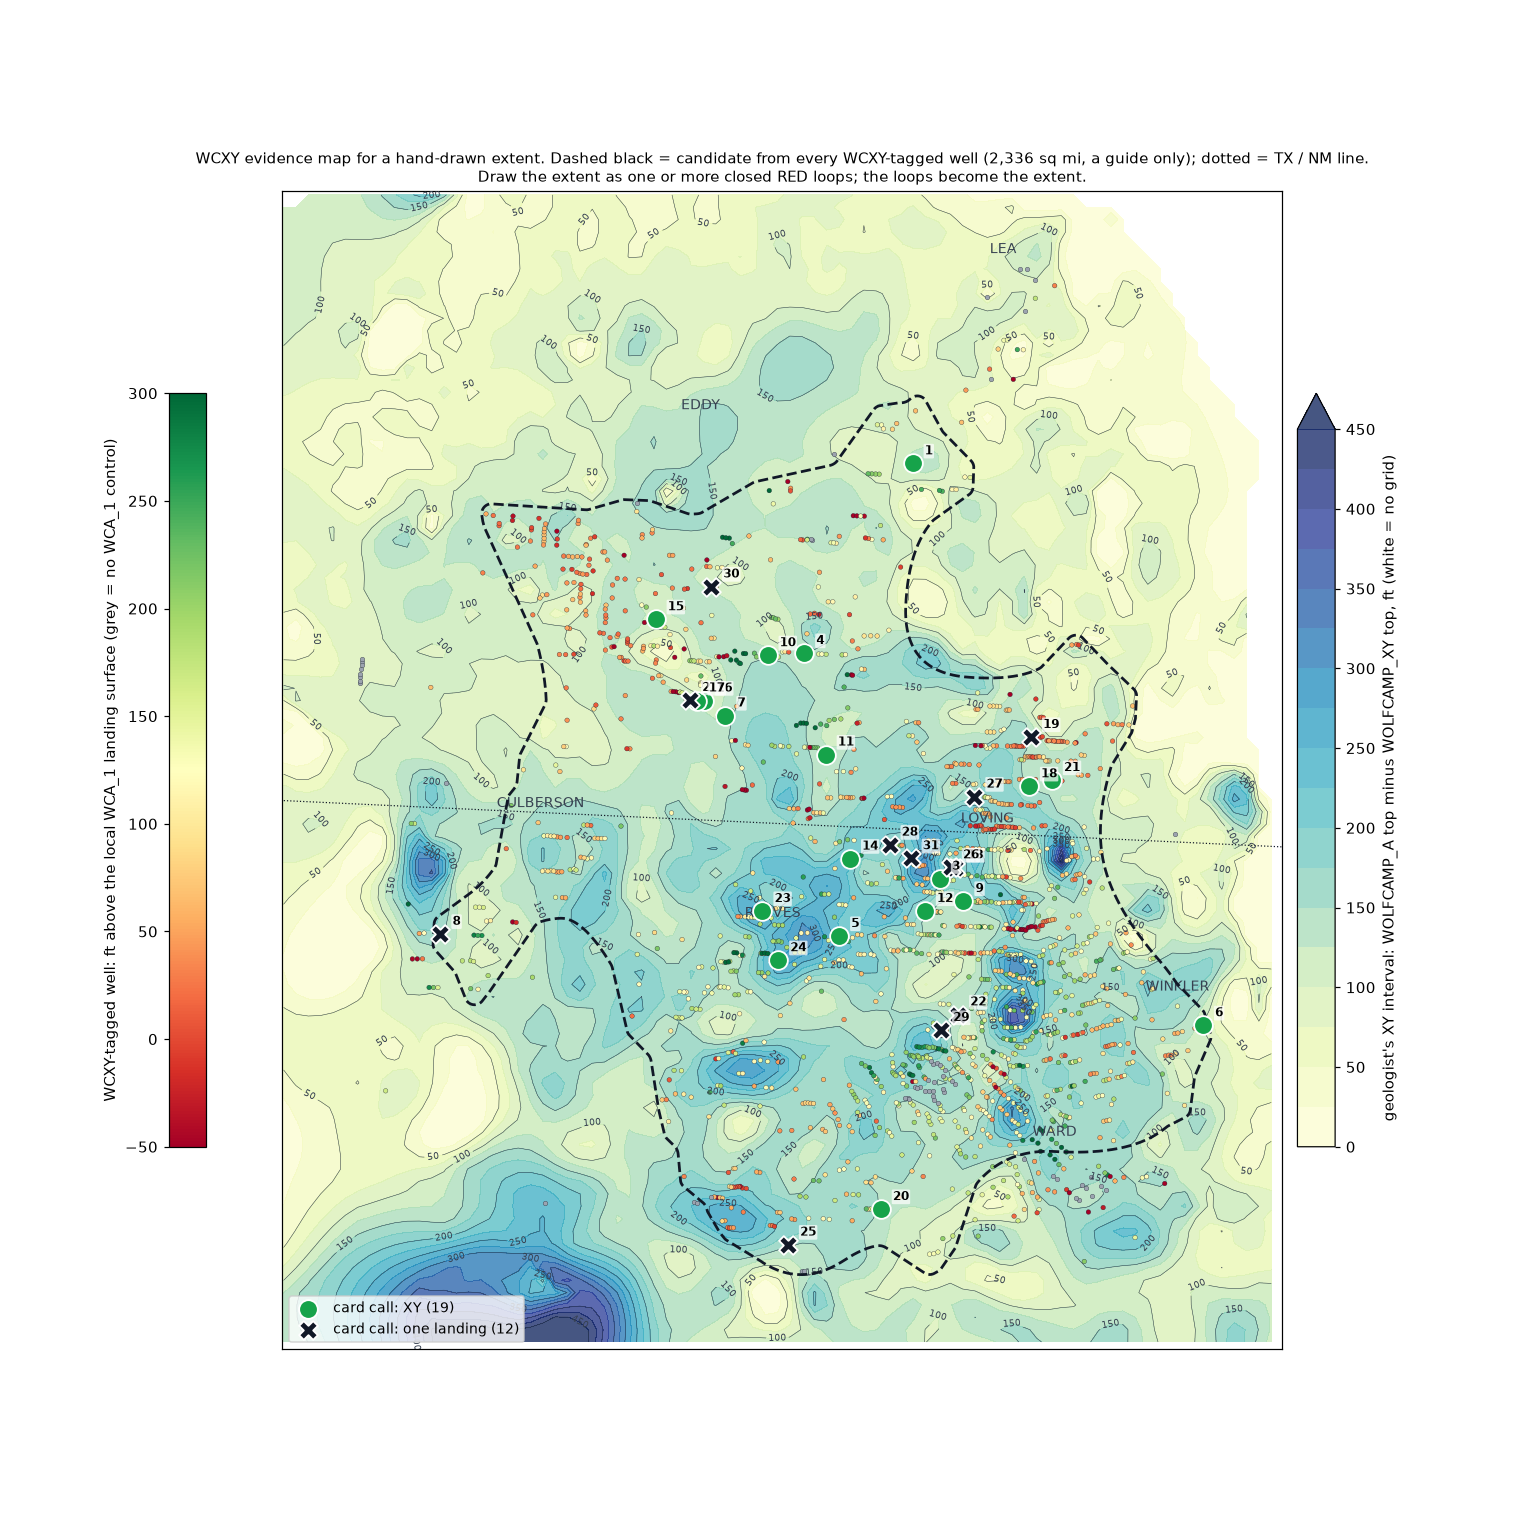
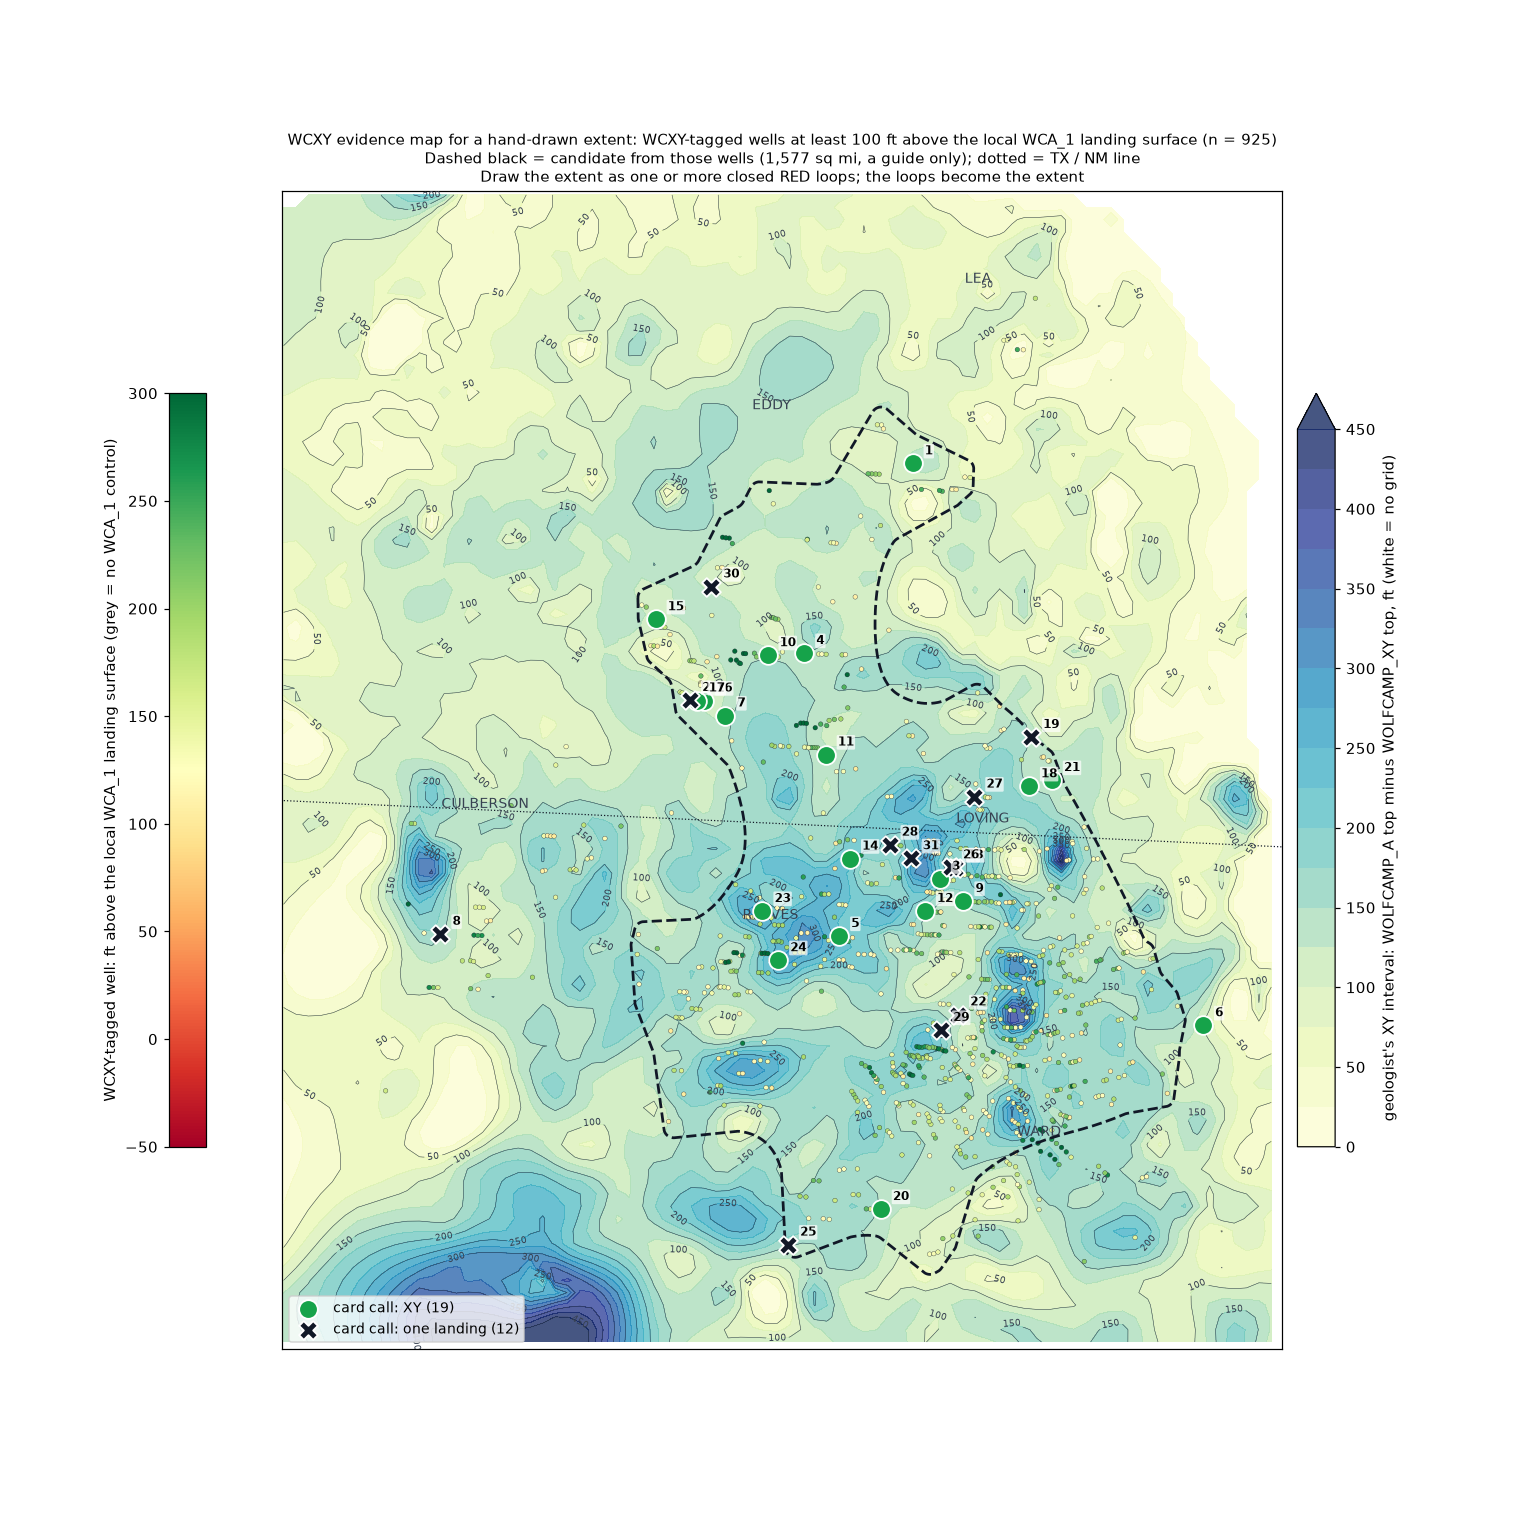
docs(box): WCXY evidence map limited to wells 100 ft or more above WCA_1
Adds --min-sep; the candidate is rebuilt from the plotted wells and the map window is fixed so the pen-edit frame does not move.

diff --git a/scripts/box_sticks_wcxy_extent.py b/scripts/box_sticks_wcxy_extent.py
@@ -89,10 +89,11 @@ def candidate(x: pd.DataFrame) -> tuple[object | None, str]:
         return ex.as_multi(u), "FALLBACK: wells buffered 4 mi, eroded 2.5 mi (not the construction of record)"
 
 
-def draw(x: pd.DataFrame, cards: pd.DataFrame | None, ext, iso: tuple, out: Path) -> dict:
+def draw(x: pd.DataFrame, cards: pd.DataFrame | None, ext, iso: tuple, out: Path, view: pd.DataFrame, note: str) -> dict:
+    """``view`` fixes the map window (all WCXY-tagged wells), so a filtered map keeps the same frame."""
     xs, ys, Z = iso
     pad = 6 * 5280.0
-    x0, y0, x1, y1 = x["gx"].min() - pad, x["gy"].min() - pad, x["gx"].max() + pad, x["gy"].max() + pad
+    x0, y0, x1, y1 = view["gx"].min() - pad, view["gy"].min() - pad, view["gx"].max() + pad, view["gy"].max() + pad
     fig, ax = plt.subplots(figsize=(14, 14))
     mx, my = (xs >= x0) & (xs <= x1), (ys >= y0) & (ys <= y1)
     Zc = np.ma.masked_invalid(Z[np.ix_(my, mx)])
@@ -130,8 +131,9 @@ def draw(x: pd.DataFrame, cards: pd.DataFrame | None, ext, iso: tuple, out: Path
     ax.set_xticks([])
     ax.set_yticks([])
     area = ext.area / eg.FT_PER_MI ** 2 if ext is not None else float("nan")
-    ax.set_title(f"WCXY evidence map for a hand-drawn extent. Dashed black = candidate from every WCXY-tagged well ({area:,.0f} sq mi, a guide only); "
-                 f"dotted = TX / NM line.\nDraw the extent as one or more closed RED loops; the loops become the extent.", fontsize=10)
+    ax.set_title(f"WCXY evidence map for a hand-drawn extent: {note} (n = {len(x):,})\n"
+                 f"Dashed black = candidate from those wells ({area:,.0f} sq mi, a guide only); dotted = TX / NM line\n"
+                 "Draw the extent as one or more closed RED loops; the loops become the extent", fontsize=10)
     fig.tight_layout()
     dpi = 110
     fig.set_dpi(dpi)
@@ -146,7 +148,7 @@ def draw(x: pd.DataFrame, cards: pd.DataFrame | None, ext, iso: tuple, out: Path
     return frame
 
 
-def run(out: Path, cache: Path | None, verdict_dir: Path | None) -> dict:
+def run(out: Path, cache: Path | None, verdict_dir: Path | None, min_sep_ft: float | None = None) -> dict:
     out.mkdir(parents=True, exist_ok=True)
     d = p0.pull(cache)
     w = p0.evidence(d["wells"], d["rule"])
@@ -157,8 +159,11 @@ def run(out: Path, cache: Path | None, verdict_dir: Path | None) -> dict:
     x["gx"], x["gy"] = g[:, 0], g[:, 1]
     iso = isopach()
     x["xy_interval_ft"] = sample(*iso, g)
-    ext, how = candidate(x)
     p, x = wc.pads(x)
+    shown, note = x, "every WCXY-tagged well"
+    if min_sep_ft is not None:   # Michael 2026-11-12: only the wells clearly above the WCA_1 landing (no-control wells drop out too)
+        shown, note = x[x["above_wca1_ft"] >= min_sep_ft], f"WCXY-tagged wells at least {min_sep_ft:.0f} ft above the local WCA_1 landing surface"
+    ext, how = candidate(shown)
     cards = None
     if verdict_dir:
         v = pd.read_csv(verdict_dir / "verdicts.csv")
@@ -166,7 +171,7 @@ def run(out: Path, cache: Path | None, verdict_dir: Path | None) -> dict:
         c = x.groupby("group")[["gx", "gy", "xy_interval_ft", "above_wca1_ft"]].median()
         cards = cards.join(c, on="group")
         cards.drop(columns=["group"]).sort_values("card").to_csv(out / "cards_on_map.csv", index=False)
-    draw(x, cards, ext, iso, out)
+    draw(shown, cards, ext, iso, out, x, note)
     if ext is not None:
         (out / "candidate_WCXY.geojson").write_text(json.dumps({"type": "FeatureCollection", "name": "box_extent_WCXY_candidate", "crs_note": "EPSG:4326",
             "features": [{"type": "Feature", "properties": {"layer": "extent", "pool": POOL, "source": "candidate, not stored", "note": how},
@@ -174,6 +179,7 @@ def run(out: Path, cache: Path | None, verdict_dir: Path | None) -> dict:
     x[["api10", "well_name", "operator", "county", "state_code", "midpoint_lat", "midpoint_lon", "depth_ft", "above_wca1_ft", "xy_interval_ft"]].to_csv(out / "wcxy_wells.csv", index=False)
     has = x["xy_interval_ft"].notna()
     summary = {"built_at": dt.datetime.now(tz=dt.UTC).isoformat(timespec="seconds"), "code_sha": p0._git_sha(), "wcxy_wells": len(x),
+               "min_sep_ft": min_sep_ft, "wells_shown": len(shown), "wells_shown_by_county": shown["county"].value_counts().to_dict(),
                "candidate": {"how": how, "sqmi": float(ext.area / eg.FT_PER_MI ** 2) if ext is not None else None},
                "xy_interval_at_wells_ft": {"wells_on_grid": int(has.sum()), "p10": float(x.loc[has, "xy_interval_ft"].quantile(0.1)),
                                            "median": float(x.loc[has, "xy_interval_ft"].median()), "p90": float(x.loc[has, "xy_interval_ft"].quantile(0.9))},
@@ -194,8 +200,9 @@ def main(argv: list[str] | None = None) -> int:
     ap.add_argument("--out", type=Path, required=True)
     ap.add_argument("--cache", type=Path, default=None)
     ap.add_argument("--verdicts", type=Path, default=None)
+    ap.add_argument("--min-sep", type=float, default=None, help="plot (and build the candidate from) only wells at least this many ft above WCA_1")
     a = ap.parse_args(argv)
-    run(a.out, a.cache, a.verdicts)
+    run(a.out, a.cache, a.verdicts, a.min_sep)
     return 0
 
 

diff --git a/docs/box_sticks/wcxy-extent-2026-11-12/FINDINGS.md b/docs/box_sticks/wcxy-extent-2026-11-12/FINDINGS.md
@@ -6,6 +6,13 @@ Read-only; nothing stored. `python -m scripts.box_sticks_wcxy_extent --out docs/
 Why hand-drawn: three automated rules were tested against Michael's 31 card calls and none beat calling every pad
 XY (`../wcxy-tiers-2026-11-12/FINDINGS.md`).
 
+**Revision (same day, Michael's request): the map now plots only WCXY-tagged wells at least 100 ft above the local
+WCA_1 landing surface** (`--min-sep 100`): 925 of the 1,806 wells (Loving 536, Reeves 151, Eddy 123, Lea 49,
+Culberson 38, Ward 25, Winkler 3). Wells with no WCA_1 control drop out with the rest. The dashed candidate is
+rebuilt from those 925 wells and shrinks from 2,336 to 1,577 sq mi; it pulls back from western Eddy, Culberson
+and northern Lea. The map window, and so the pen-edit frame, is unchanged. The description below is of the first
+version (all wells); card markers and the background are the same on both.
+
 ## What is on `visual_WCXY.png`
 
 - **Background**: the geologist's XY interval thickness, WOLFCAMP_A top minus WOLFCAMP_XY top (HCA structure
